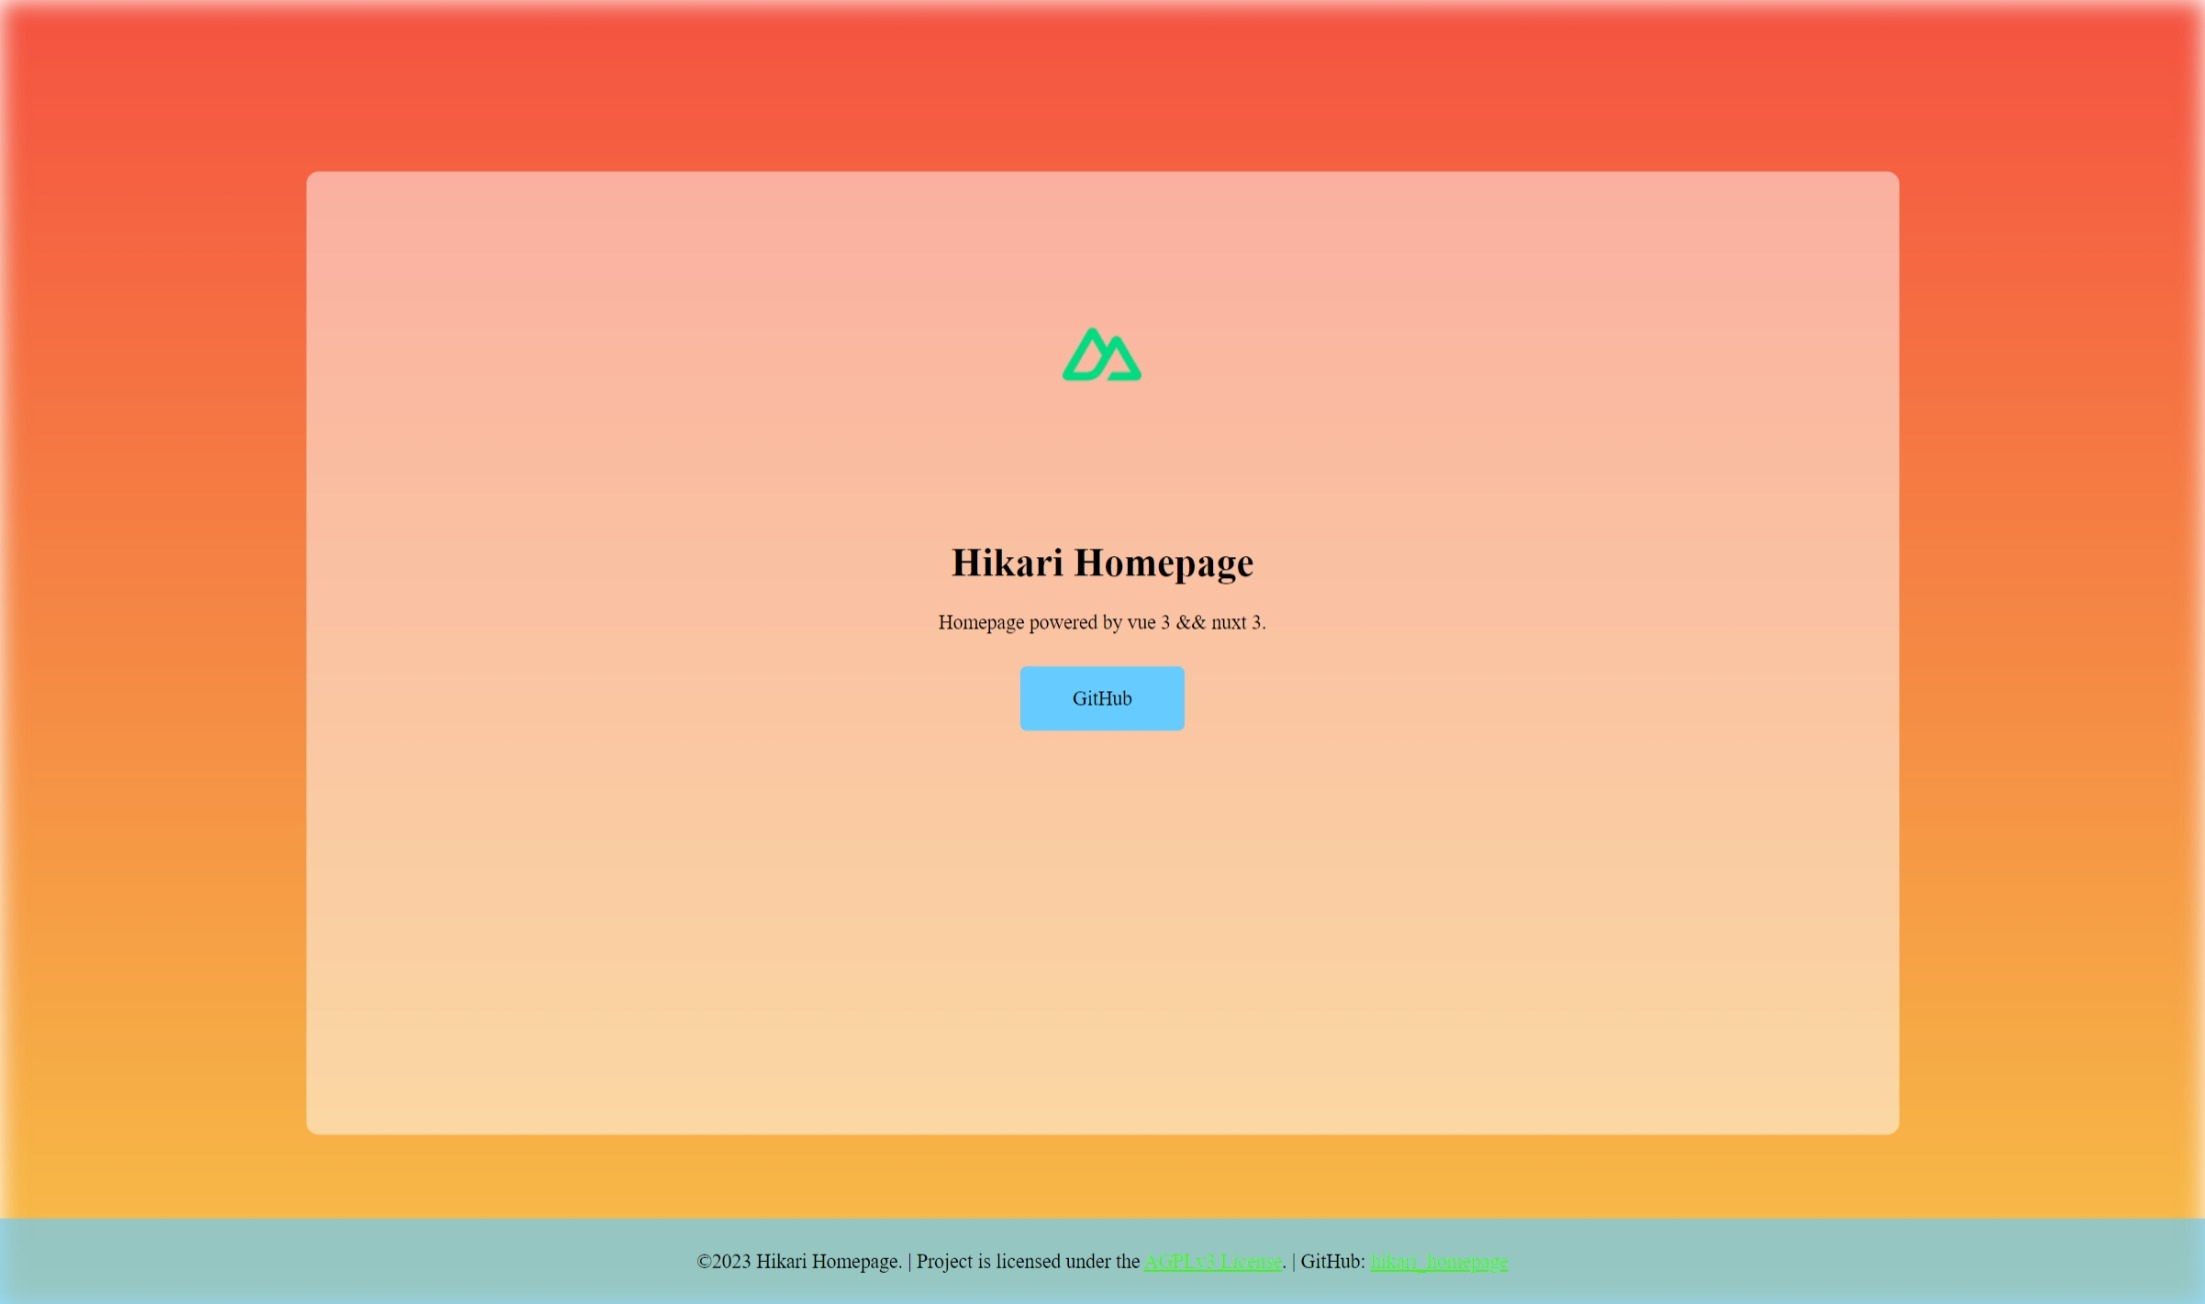
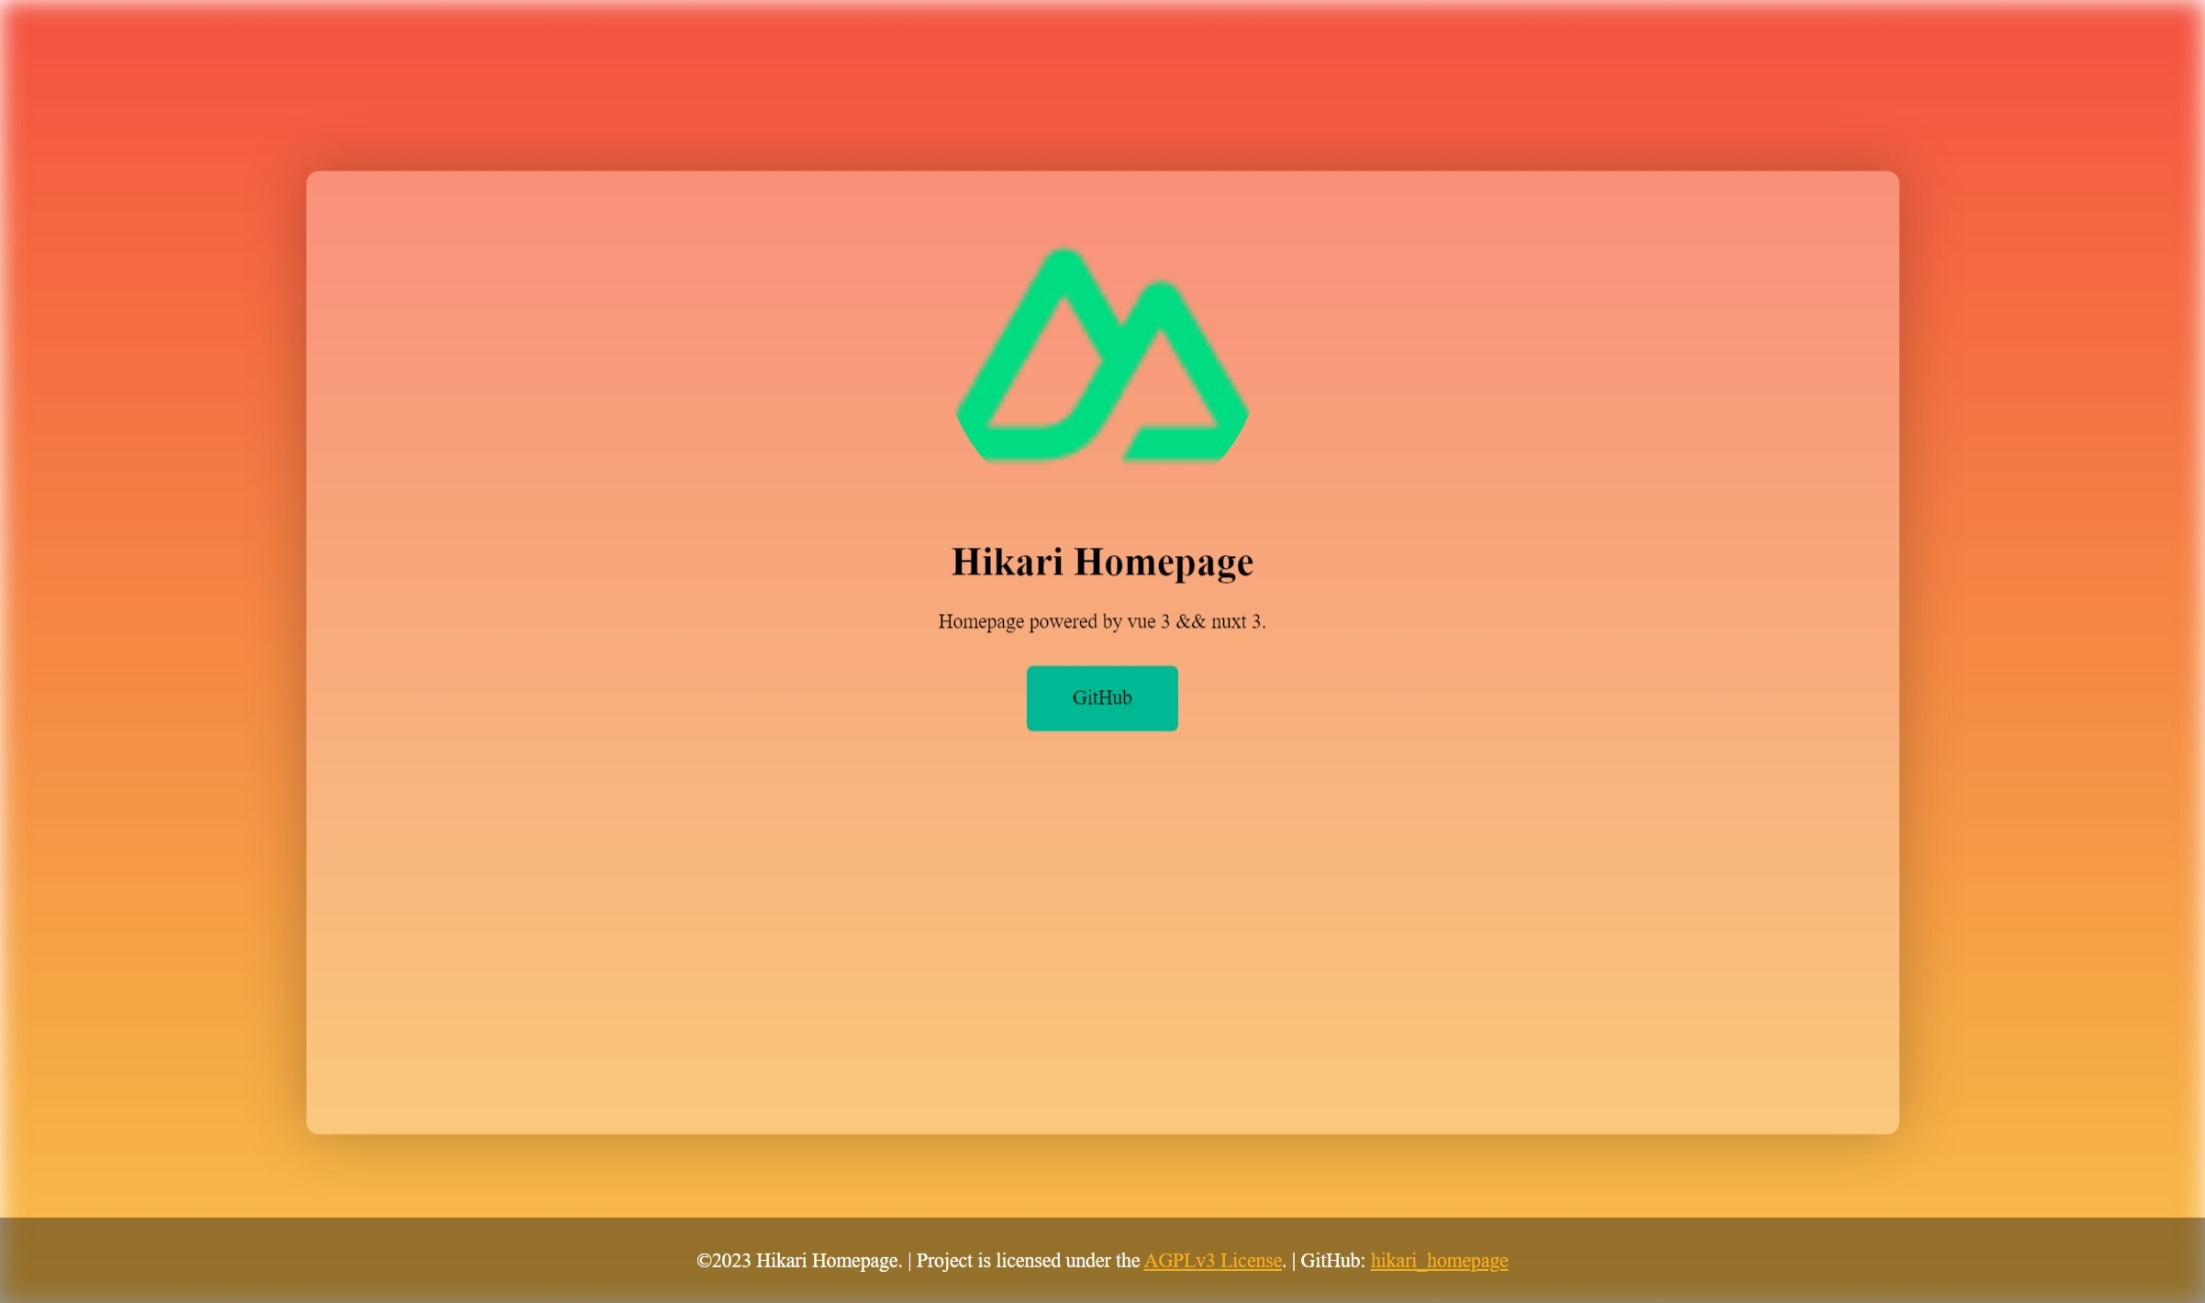
Docs: Update README.MD

diff --git a/README.MD b/README.MD
@@ -29,11 +29,27 @@ export const config: Config = {
             blur: "10px"
         }
     },
+    panel: {
+        filter: {
+            blur: "20px",
+            contrast: "1.5"
+        },
+        shadow: {
+            offsetX: "0",
+            offsetY: "0",
+            blurRadius: "50px",
+            color: "rgba(0 0 0/ 25%)",
+        }
+    },
     theme: {
-        primaryColor: "#66CCFF",
-        secondaryColor: "#41f519",
-        surfaceColor: "rgba(255,255,255,0.5)",
-        textColor: "#000",
+        primaryColor: "#00b894",
+        secondaryColor: "#f5af19",
+        surfaceColor: "rgba(255,255,255,0.3)",
+        onSurfaceTextColor: "#000",
+        headerColor: "rgba(0,0,0, 0.4)",
+        onHeaderTextColor: "#FFF",
+        footerColor: "rgba(0,0,0, 0.4)",
+        onFooterTextColor: "#FFF",
     },
     borderRadius: '10px',
     avatar: {
